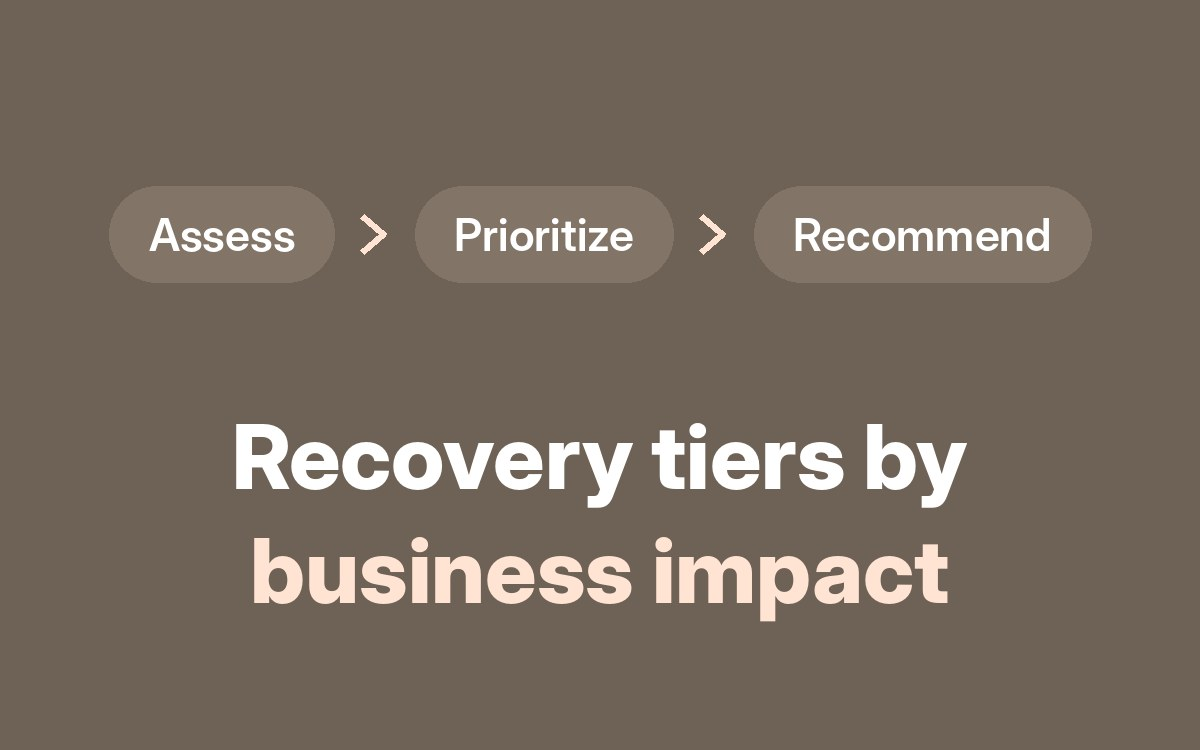
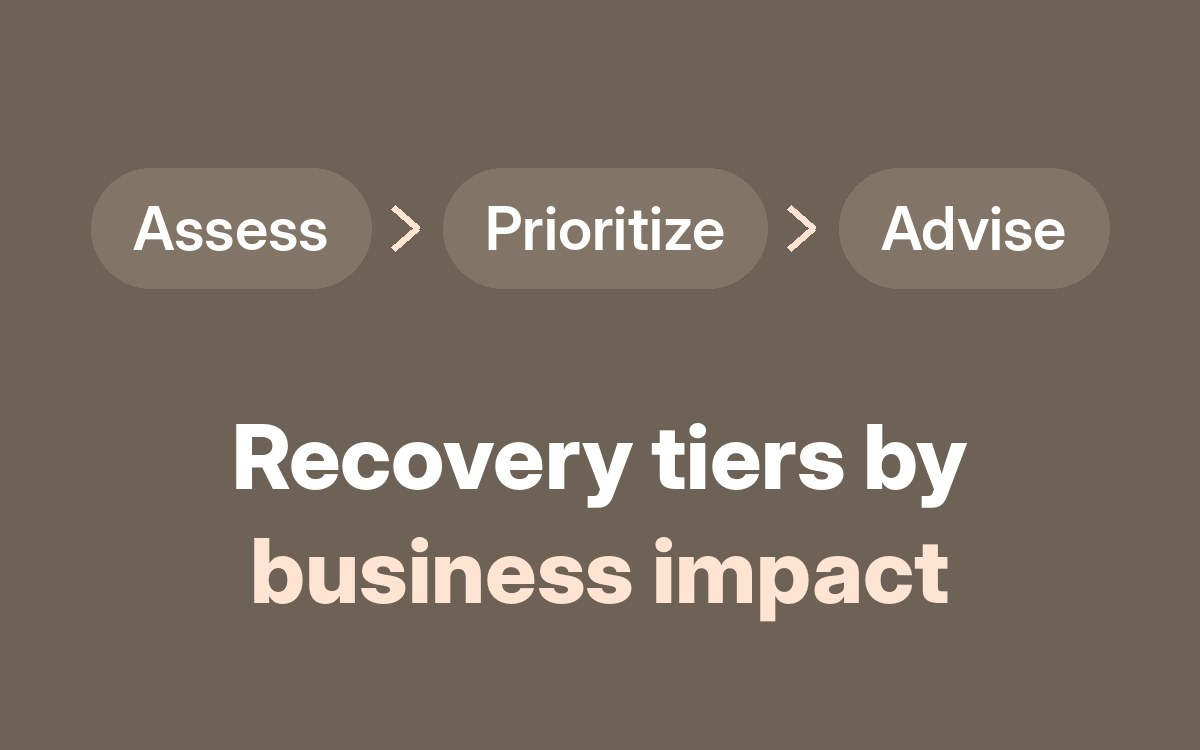
Card thumbnails: larger pill text
Claude-Session: https://claude.ai/code/session_01PakEgqxXdd6a8Ty4RidXfq

Changed region(s): [[0.0925, 0.276, 0.6167, 0.3373], [0.6475, 0.276, 0.8942, 0.3373]]

diff --git a/index.html b/index.html
@@ -178,7 +178,7 @@
           </div>
         </article>
         <article class="project">
-          <a class="shot" href="/projects/itil-service-management/"><img src="/assets/projects/cards/itil-service-management.jpg" alt="Assess, prioritize, recommend: recovery tiers by business impact" loading="lazy"></a>
+          <a class="shot" href="/projects/itil-service-management/"><img src="/assets/projects/cards/itil-service-management.jpg" alt="Assess, prioritize, advise: recovery tiers by business impact" loading="lazy"></a>
           <div class="body">
             <p class="meta"><span class="badge past">Graduate coursework</span><span>2011</span></p>
             <h3><a href="/projects/itil-service-management/">ITIL Service Management Assessments</a></h3>

diff --git a/projects/index.html b/projects/index.html
@@ -111,7 +111,7 @@
           </div>
         </article>
         <article class="project">
-          <a class="shot" href="/projects/itil-service-management/"><img src="/assets/projects/cards/itil-service-management.jpg" alt="Assess, prioritize, recommend: recovery tiers by business impact" loading="lazy"></a>
+          <a class="shot" href="/projects/itil-service-management/"><img src="/assets/projects/cards/itil-service-management.jpg" alt="Assess, prioritize, advise: recovery tiers by business impact" loading="lazy"></a>
           <div class="body">
             <p class="meta"><span class="badge past">Graduate coursework</span><span>2011</span></p>
             <h3><a href="/projects/itil-service-management/">ITIL Service Management Assessments</a></h3>

diff --git a/build.py b/build.py
@@ -140,7 +140,7 @@ PROJECTS = [
         "summary": "For my M.S. ITIL course, I assessed two fictional companies, a global resort operator and a mobile music service, and wrote recommendations to IT leadership on service portfolios, SLAs, supplier contracts, continuity, and change management.",
         "tags": ["ITIL service lifecycle", "Service level management", "IT service continuity", "Supplier management"],
         "image": "/assets/projects/cards/itil-service-management.jpg",
-        "image_alt": "Assess, prioritize, recommend: recovery tiers by business impact",
+        "image_alt": "Assess, prioritize, advise: recovery tiers by business impact",
         "links": [("Read more", "/projects/itil-service-management/", True)],
     },
 ]
